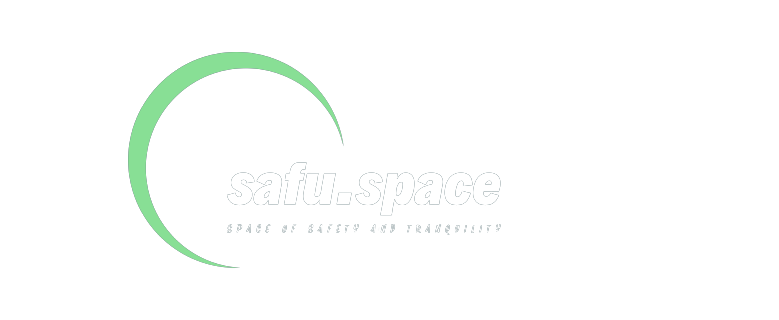
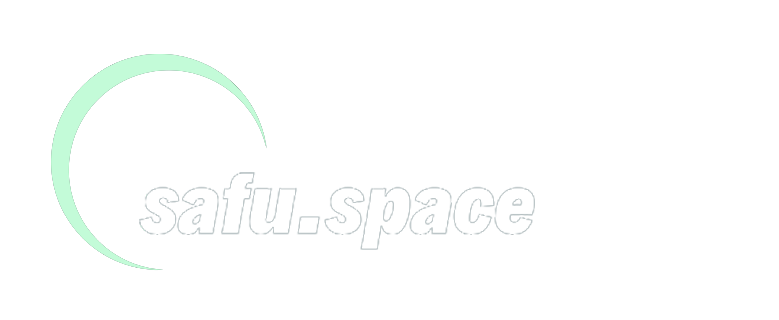
ui improvements/roadmap page

Changed region(s): [[0.0616, 0.1562, 0.6778, 0.8438], [0.154, 0.8125, 0.2157, 0.8438], [0.647, 0.7188, 0.6778, 0.75]]

diff --git a/public/index.html b/public/index.html
@@ -4,7 +4,7 @@
         <meta charset="utf-8" />
         <link rel="icon" href="%PUBLIC_URL%/favicon.png" type="image/png" />
         <meta name="viewport" content="width=device-width, initial-scale=1" />
-        <meta name="theme-color" content="#767bb3" />
+        <meta name="theme-color" content="#C3FBD8" />
         <title>safu.app</title>
     </head>
     <body>
